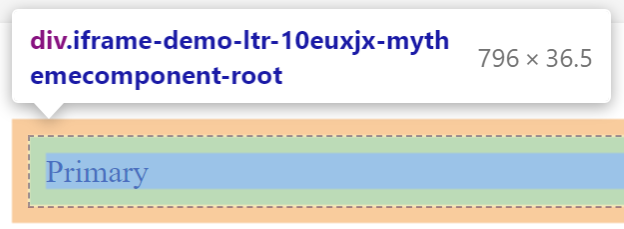
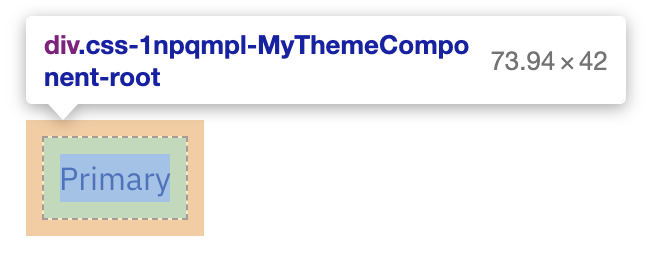
[docs] Fix typo in generated class names section (#28549)

diff --git a/docs/src/pages/system/styled/UsingOptions.js b/docs/src/pages/system/styled/UsingOptions.js
@@ -36,7 +36,8 @@ const customTheme = createTheme({
 
 const MyThemeComponent = styled('div', {
   // Configure which props should be forwarded on DOM
-  shouldForwardProp: (prop) => prop !== 'color' && prop !== 'variant',
+  shouldForwardProp: (prop) =>
+    prop !== 'color' && prop !== 'variant' && prop !== 'sx',
   name: 'MyThemeComponent',
   slot: 'Root',
   // We are specifying here how the styleOverrides are being applied based on props

diff --git a/docs/src/pages/system/styled/UsingOptions.tsx b/docs/src/pages/system/styled/UsingOptions.tsx
@@ -41,7 +41,8 @@ const customTheme = createTheme({
 
 const MyThemeComponent = styled('div', {
   // Configure which props should be forwarded on DOM
-  shouldForwardProp: (prop) => prop !== 'color' && prop !== 'variant',
+  shouldForwardProp: (prop) =>
+    prop !== 'color' && prop !== 'variant' && prop !== 'sx',
   name: 'MyThemeComponent',
   slot: 'Root',
   // We are specifying here how the styleOverrides are being applied based on props

diff --git a/docs/src/pages/system/styled/styled.md b/docs/src/pages/system/styled/styled.md
@@ -58,9 +58,11 @@ This example demonstrates how you can use the `styled` API to create custom comp
 
 {{"demo": "pages/system/styled/UsingOptions.js", "defaultCodeOpen": true }}
 
-If you inspect this element with the browser DevTools, you will notice that the class of the component now ends with the `MyTestComponent-root`, which comes from the `name` and `slot` options that were provided. In addition to this, the `color` and `variant` props are not propagated to the generated `div` element.
+If you inspect this element with the browser DevTools in development mode, you will notice that the class of the component now ends with the `MyThemeComponent-root`, which comes from the `name` and `slot` options that were provided.
 
-<img src="/static/images/system/styled-options.png" alt="Developer tools showing the rendered component" width="312" />
+<img src="/static/images/system/styled-options.png" alt="browser DevTools showing the rendered component" width="327" />
+
+In addition to this, the `color`, `sx`, and `variant` props are not propagated to the generated `div` element.
 
 ## Removing features
 
